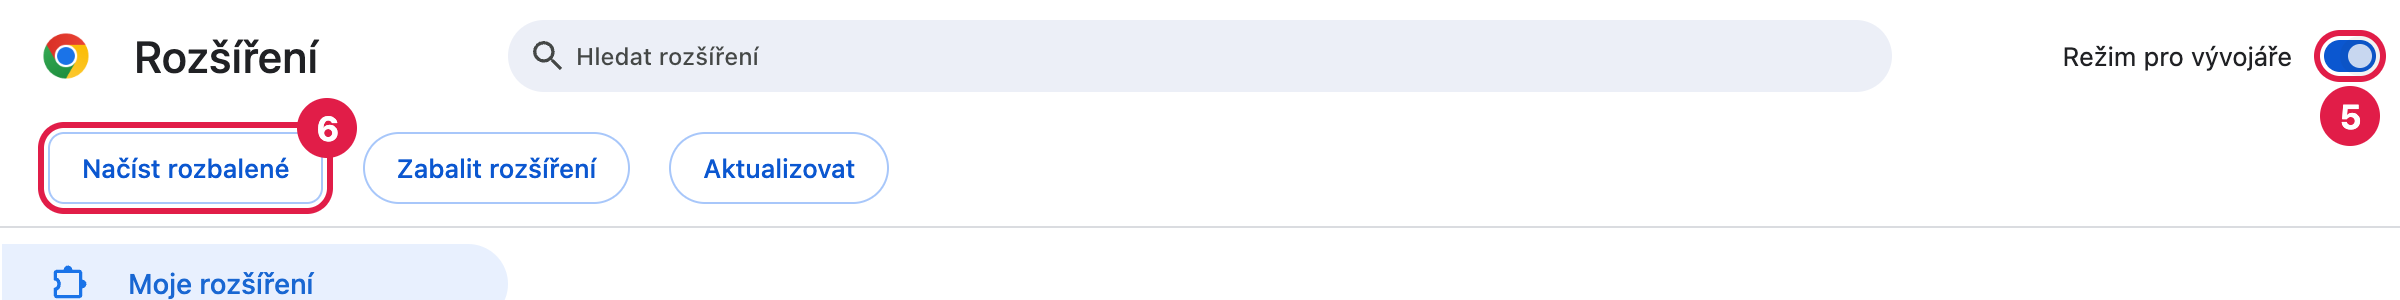
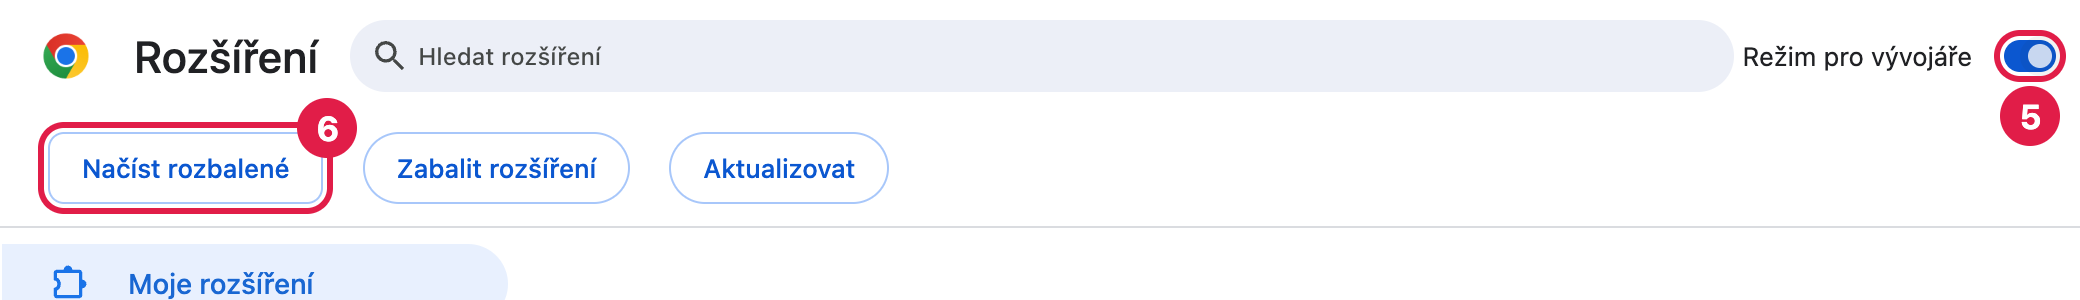
v11.01

diff --git a/simpolis/index.html b/simpolis/index.html
@@ -30,6 +30,7 @@ p, ul, ol { margin:10px 0; }
 li { margin:6px 0; }
 a { color:var(--blue); }
 figure { margin:10px 0 22px; }
+@media (min-width: 1100px) { figure.wide { margin-inline:-120px; } }
 figure img { display:block; max-width:100%; height:auto; border:1px solid var(--line); border-radius:12px; background:#fff; }
 code { font-size:.9em; background:var(--line); padding:1px 5px; border-radius:5px; }
 .cta { display:inline-block; background:var(--blue); color:#fff; text-decoration:none; font-weight:650; padding:12px 18px; border-radius:12px; margin:6px 0 4px; }
@@ -61,7 +62,7 @@ h3.os { display:inline-block; font-size:15px; margin:18px 0 4px; padding:3px 12p
 <p><strong>Krok 4: otevři v Chromu stránku Rozšíření.</strong> Napiš do adresního řádku <code>chrome://extensions</code> a stiskni Enter.</p>
 <p><strong>Krok 5: zapni Režim pro vývojáře.</strong> Přepínač je vpravo nahoře.</p>
 <p><strong>Krok 6: klikni na Načíst rozbalené</strong> a vyber složku <strong>Simpolis</strong> v Dokumentech.</p>
-<figure><img src="navod/chrome-stranka-rozsireni.png" alt="Stránka Rozšíření v Chromu na počítači: 5 je přepínač Režim pro vývojáře vpravo nahoře, 6 je tlačítko Načíst rozbalené vlevo" loading="lazy"></figure>
+<figure class="wide"><img src="navod/chrome-stranka-rozsireni.png" alt="Stránka Rozšíření v Chromu na počítači: 5 je přepínač Režim pro vývojáře vpravo nahoře, 6 je tlačítko Načíst rozbalené vlevo" loading="lazy"></figure>
 <p><strong>Načteno:</strong> v seznamu rozšíření uvidíš kartu Šimpoliše se zapnutým modrým přepínačem.</p>
 <figure><img src="navod/chrome-3-nacteno.png" alt="Karta rozšíření Šimpoliš (beta) se zapnutým přepínačem" loading="lazy"></figure>
 <p><strong>Krok 7: připni si šimpanze,</strong> ať ho máš v liště po ruce.</p>
